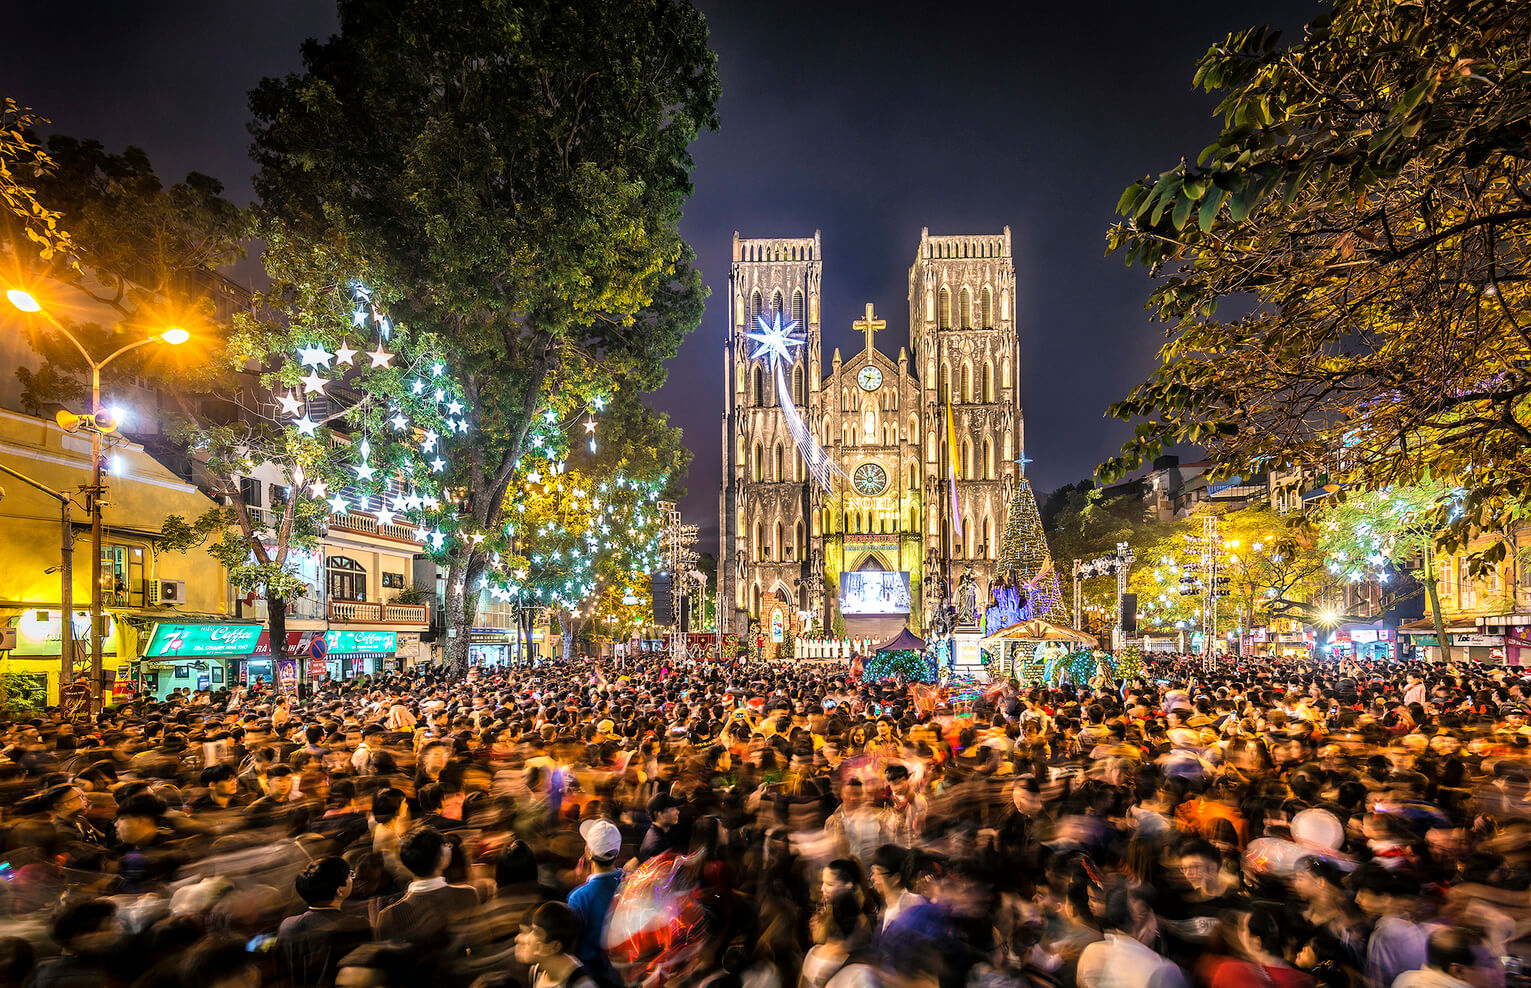
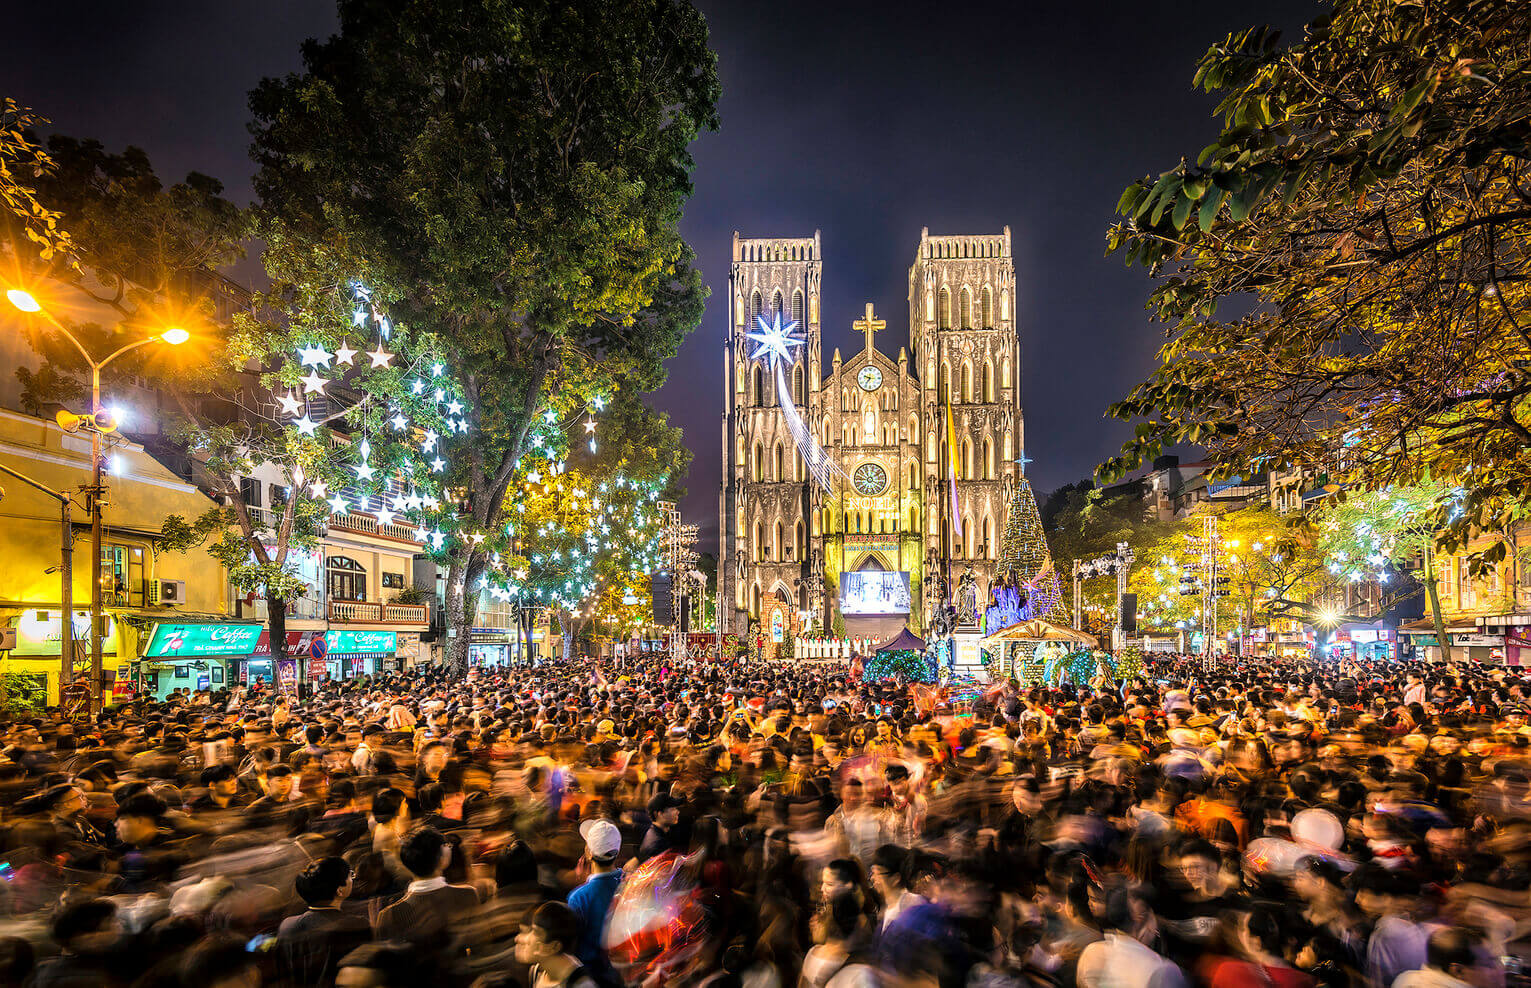
Compress pictures

diff --git a/pages/prize.html b/pages/prize.html
@@ -3,14 +3,15 @@
 <head>
     <meta charset="UTF-8">
     <link rel="stylesheet" href="../styles.css"/>
-    <title>Your Present</title
+    <title>Your Present</title>
 </head>
 
-<body background="../images/backgroundlights.jpg"
+<body background="../images/backgroundlights.jpg">
 
     <div class="align">
-        <div id="final-header"><h1>Merry Christmas Mum and Dad!</h1></div>
-    </div>
+        <div id="final-header"><h1>Merry Christmas Mum and Dad!</h1>
+        
+    </div> </div>
 </a>
 
 <div class="align">

diff --git a/pages/surprise.html b/pages/surprise.html
@@ -10,7 +10,7 @@
 
 <div class="background">
 
-<body background="../images/surprise.png">
+<body background="../images/surprise.jpg">
 
 </div>
 
